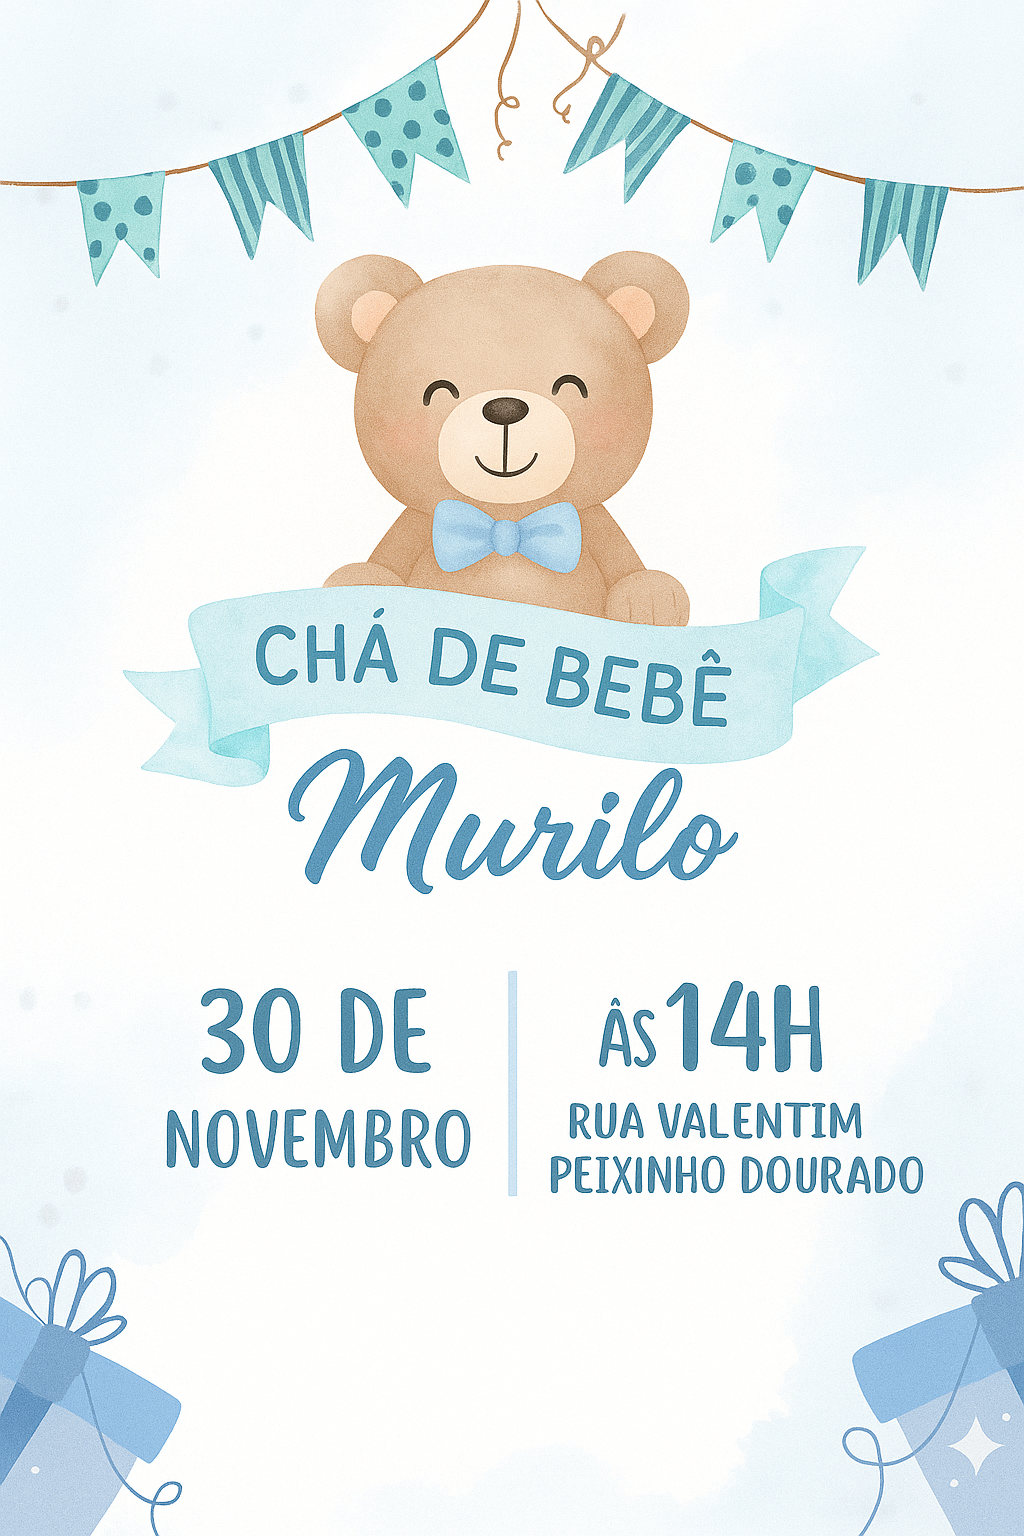
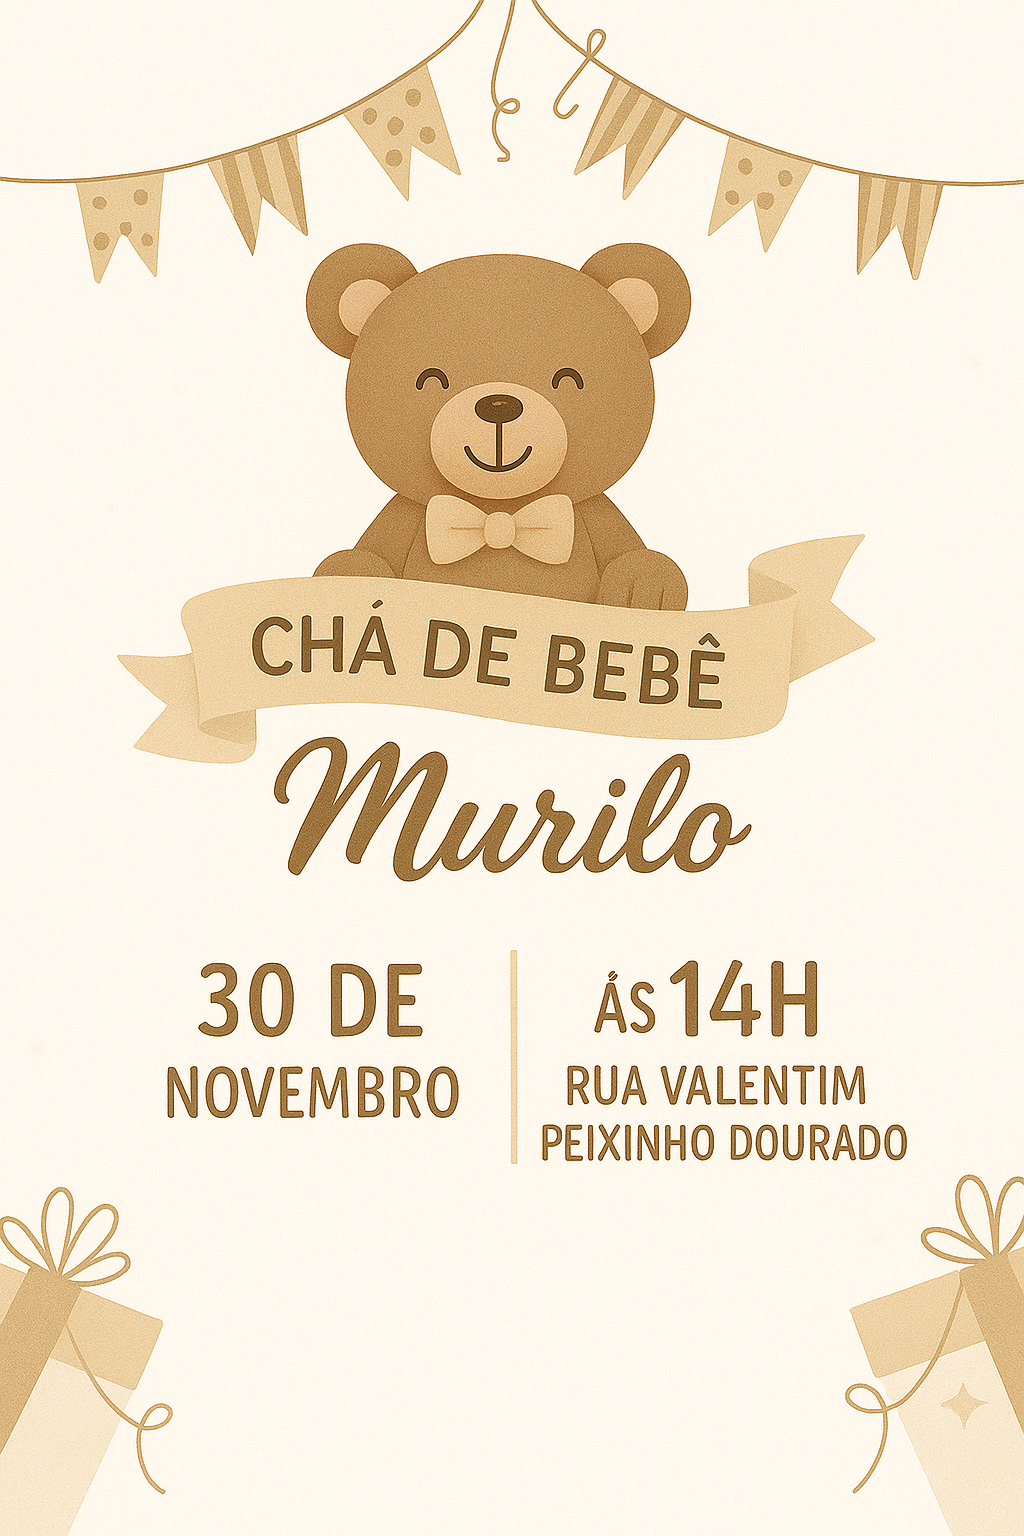
Add files via upload

diff --git a/style.css b/style.css
@@ -1,7 +1,9 @@
 /* --- ESTILOS GERAIS E DO CONVITE --- */
 :root {
-    --btn-bg: #2f6f8a;
-    --btn-hover: #245667;
+    --cor-bege: #D3C5AA;       /* Bege principal */
+    --cor-bege-hover: #bdae95; /* Bege mais escuro */
+    --cor-titulos: #413a30;    /* Marrom escuro para o texto */
+    --cor-fundo-claro: #fdfaf5; /* Fundo branco quente */
 }
 
 * {
@@ -49,8 +51,8 @@ body {
     transform: translateX(-50%);
     appearance: none;
     border: 0;
-    background: var(--btn-bg);
-    color: #fff;
+    background: var(--cor-bege);
+    color: var(--cor-titulos);
     padding: 12px 20px;
     border-radius: 10px;
     font-weight: 700;
@@ -60,9 +62,8 @@ body {
     box-shadow: 0 6px 18px rgba(47, 111, 138, 0.18);
     transition: transform 0.12s ease, background-color 0.12s ease, box-shadow 0.12s ease;
 }
-.btn:hover { background: var(--btn-hover); transform: translate(-50%, -2px); box-shadow: 0 10px 22px rgba(36, 86, 103, 0.18); }
+.btn:hover { background: var(--cor-bege-hover); transform: translate(-50%, -2px); box-shadow: 0 10px 22px rgba(0, 0, 0, 0.15); }
 .btn:active { transform: translate(-50%, 0); }
-
 /* --- Mobile Ajustes --- */
 @media (max-width: 600px) {
     .convite img {
@@ -133,7 +134,7 @@ background: linear-gradient(
 }
 
 .modal-content {
-    background: #fff;
+    background: var(--cor-fundo-claro); /* Usa o fundo branco quente */
     padding: 25px 30px;
     border-radius: 15px;
     max-width: 550px;
@@ -143,7 +144,12 @@ background: linear-gradient(
     overflow-y: auto;
     font-family: 'Lora', serif;
 }
-.modal-content h2 { font-family: 'Montserrat', sans-serif; text-align: center; color: var(--btn-bg); margin-bottom: 20px; }
+.modal-content h2 { 
+    font-family: 'Montserrat', sans-serif; 
+    text-align: center; 
+    color: var(--cor-titulos); /* <-- CORREÇÃO */
+    margin-bottom: 20px; 
+}
 .modal-close {
     position: absolute;
     top: 10px;
@@ -160,7 +166,7 @@ background: linear-gradient(
 /* Formulário */
 .campo-form { margin-bottom: 20px; }
 .campo-form label { display: block; margin-bottom: 8px; font-weight: 600; color: #555; }
-.campo-form input[type="text"] { width: 100%; padding: 12px; border: 1px solid #ddd; border-radius: 8px; box-sizing: border-box; font-family: 'Lora', serif; }
+.campo-form input[type="text"], .campo-form input[type="number"] { width: 100%; padding: 12px; border: 1px solid #ddd; border-radius: 8px; box-sizing: border-box; font-family: 'Lora', serif; }
 .botoes-opcionais { display: flex; gap: 10px; margin-bottom: 20px; }
 .btn-adicionar { background: #f0f0f0; border: 1px solid #ddd; padding: 10px; border-radius: 8px; cursor: pointer; flex-grow: 1; }
 .acompanhante-dinamico { border-top: 1px dashed #ccc; padding-top: 15px; }
@@ -168,13 +174,32 @@ background: linear-gradient(
 .btn-remover { background: #ffdddd; border: 1px solid #ffb8b8; color: #c53030; border-radius: 5px; cursor: pointer; padding: 2px 8px; }
 .campo-criancas { display: none; }
 .contador { display: flex; align-items: center; justify-content: center; gap: 15px; }
-.btn-contador { width: 30px; height: 30px; border-radius: 50%; border: 1px solid var(--btn-bg); background: white; color: var(--btn-bg); font-size: 1.2rem; cursor: pointer; }
+.btn-contador { 
+    width: 30px; 
+    height: 30px; 
+    border-radius: 50%; 
+    border: 1px solid var(--cor-bege); /* <-- CORREÇÃO */
+    background: white; 
+    color: var(--cor-titulos); /* <-- CORREÇÃO */
+    font-size: 1.2rem; 
+    cursor: pointer; 
+}
 
 /* Botão Principal do Modal */
 .btn-principal {
-    display: block; width: 100%; background: var(--btn-bg); color: white; border: none; padding: 15px; border-radius: 8px; font-weight: 700; font-size: 1rem; cursor: pointer; transition: background-color 0.2s;
+    display: block; 
+    width: 100%; 
+    background: var(--cor-bege); /* <-- CORREÇÃO */
+    color: var(--cor-titulos);      /* <-- CORREÇÃO */
+    border: none; 
+    padding: 15px; 
+    border-radius: 8px; 
+    font-weight: 700; 
+    font-size: 1rem; 
+    cursor: pointer; 
+    transition: background-color 0.2s;
 }
-.btn-principal:hover { background: var(--btn-hover); }
+.btn-principal:hover { background: var(--cor-bege-hover); }
 
 /* Lista de Presentes */
 #gift-container { display: grid; grid-template-columns: repeat(auto-fill, minmax(200px, 1fr)); gap: 20px; }
@@ -183,9 +208,20 @@ background: linear-gradient(
 .gift-image { width: 100%; height: 120px; object-fit: cover; }
 .gift-info { padding: 15px; }
 .gift-info h3 { font-size: 1rem; margin: 0 0 10px; }
-.btn-presentear { background: var(--btn-bg); color: #fff; border: none; padding: 8px 12px; border-radius: 5px; cursor: pointer; }
+.btn-presentear { 
+    background: var(--cor-bege); /* <-- CORREÇÃO */
+    color: var(--cor-titulos);      /* <-- CORREÇÃO */
+    border: none; 
+    padding: 8px 12px; 
+    border-radius: 5px; 
+    cursor: pointer; 
+}
 .btn-presentear:disabled { background: #ccc; }
 
 /* Agradecimento */
 .thank-you-content { text-align: center; }
-.thank-you-content .fa-heart { color: var(--btn-bg); font-size: 4rem; margin-bottom: 20px; }
+.thank-you-content .fa-heart { 
+    color: var(--cor-bege); /* <-- CORREÇÃO */
+    font-size: 4rem; 
+    margin-bottom: 20px; 
+}

diff --git a/index.html b/index.html
@@ -63,7 +63,6 @@
             </div>
         </div>
     </div>
-
     <script src="https://www.gstatic.com/firebasejs/9.6.7/firebase-app-compat.js"></script>
     <script src="https://www.gstatic.com/firebasejs/9.6.7/firebase-firestore-compat.js"></script>
     <script src="script.js"></script>
